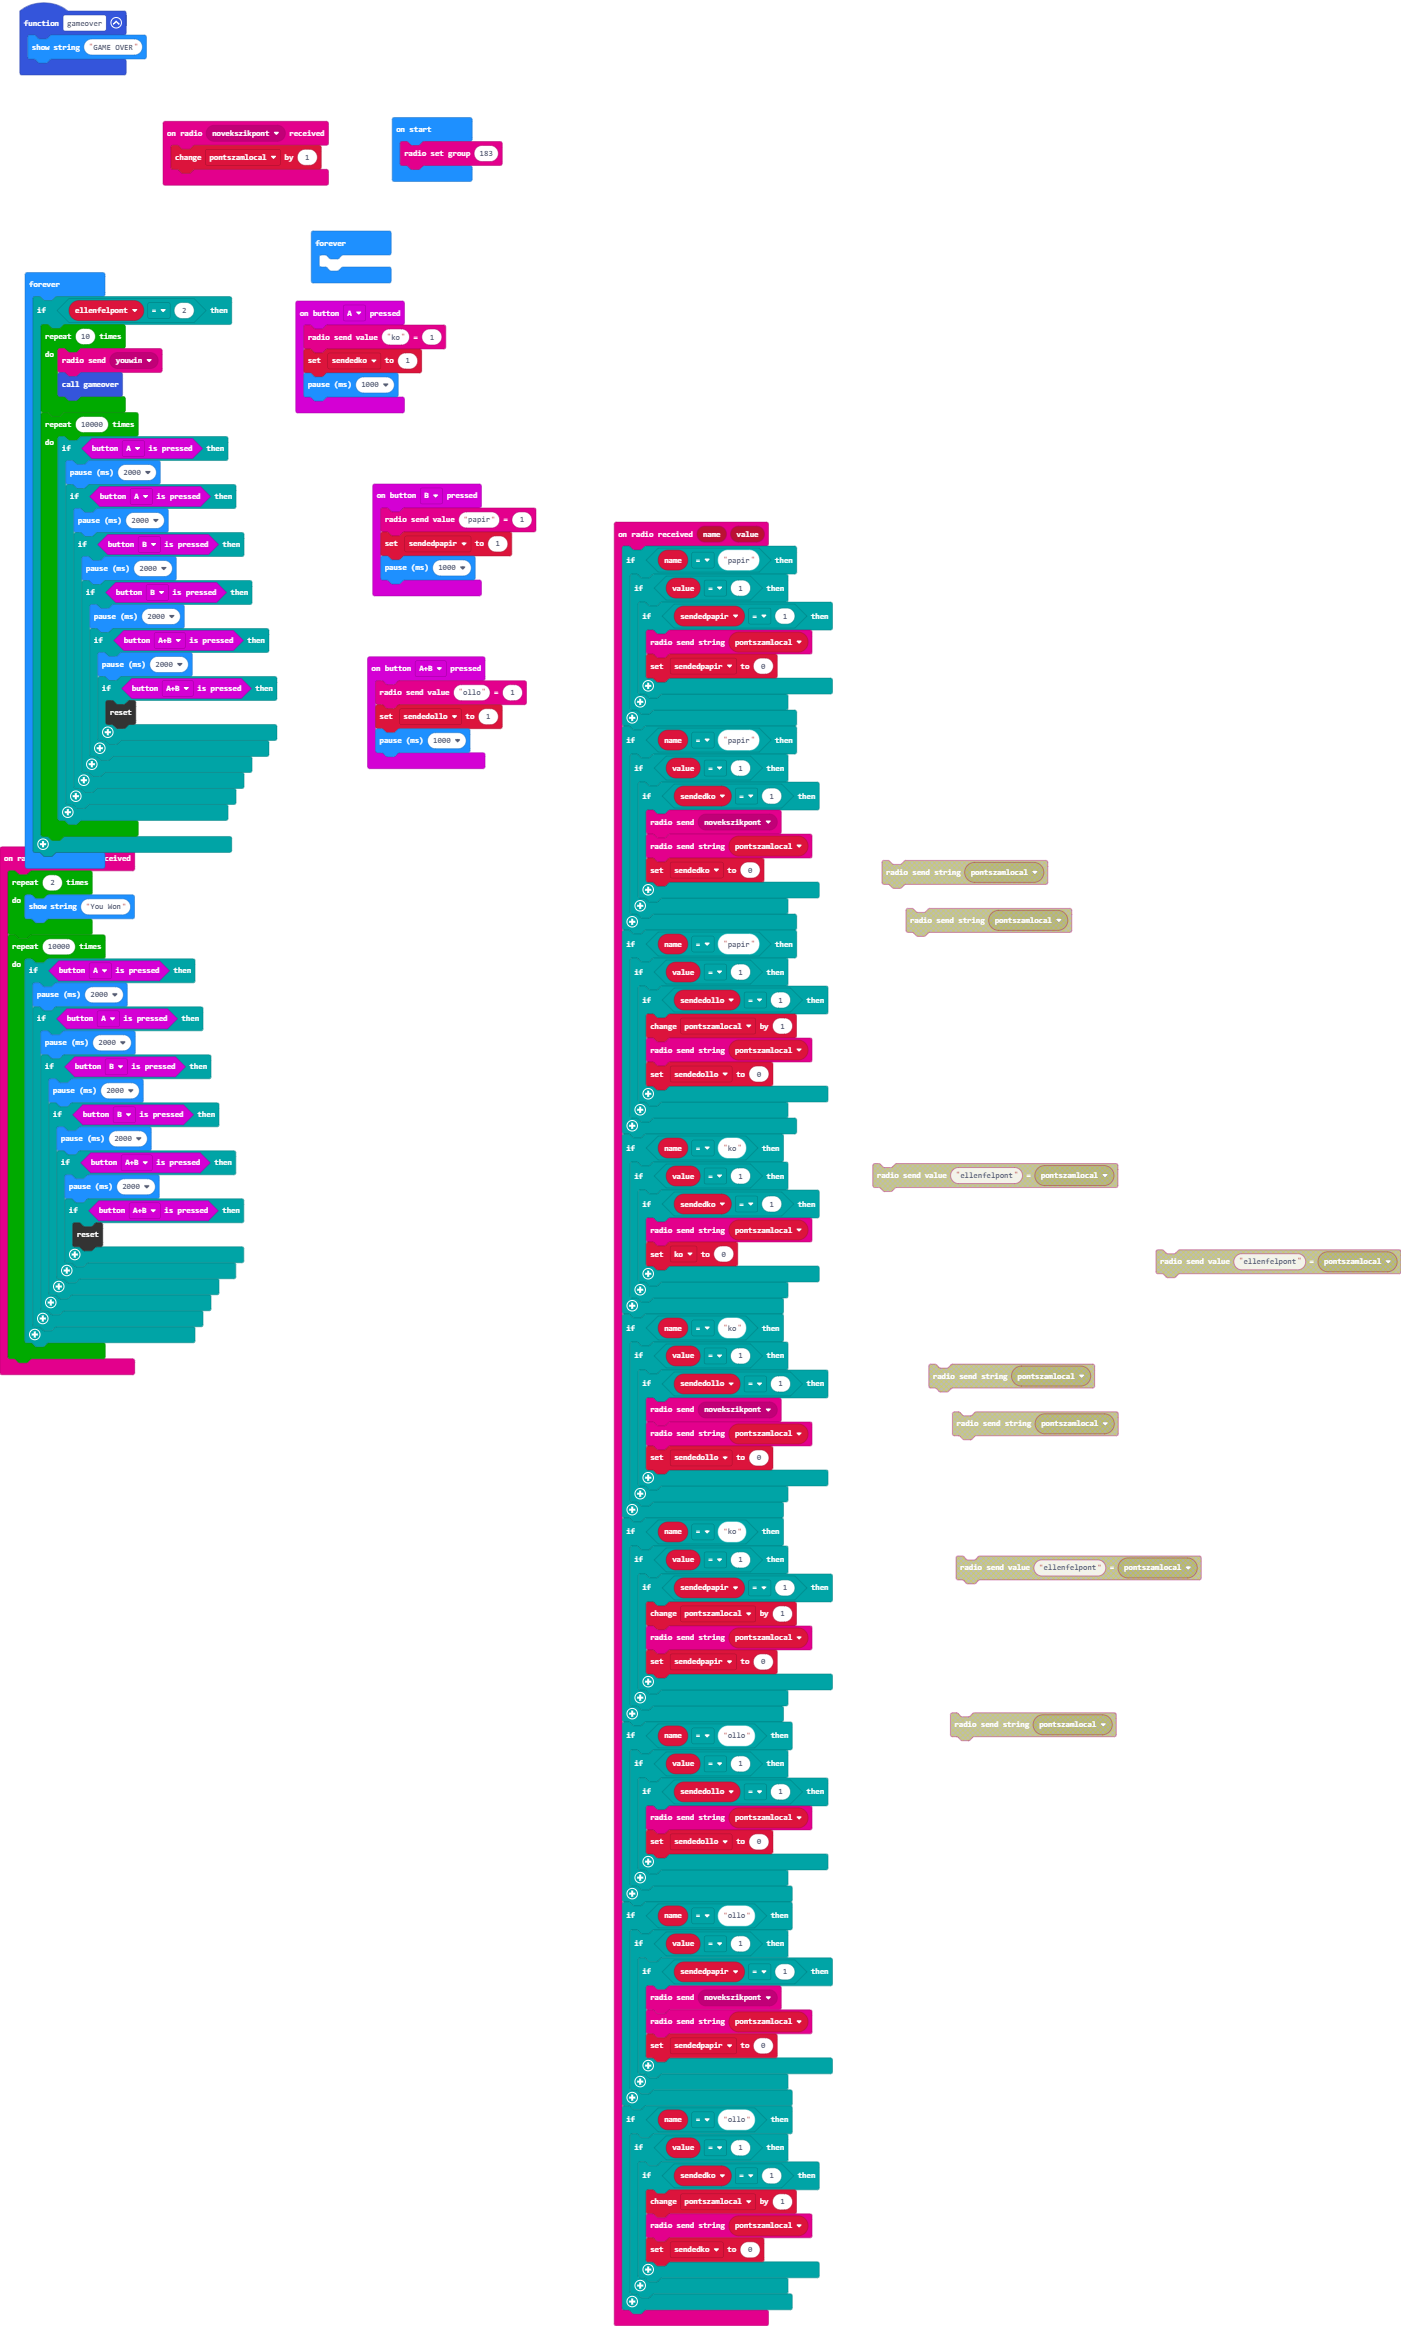
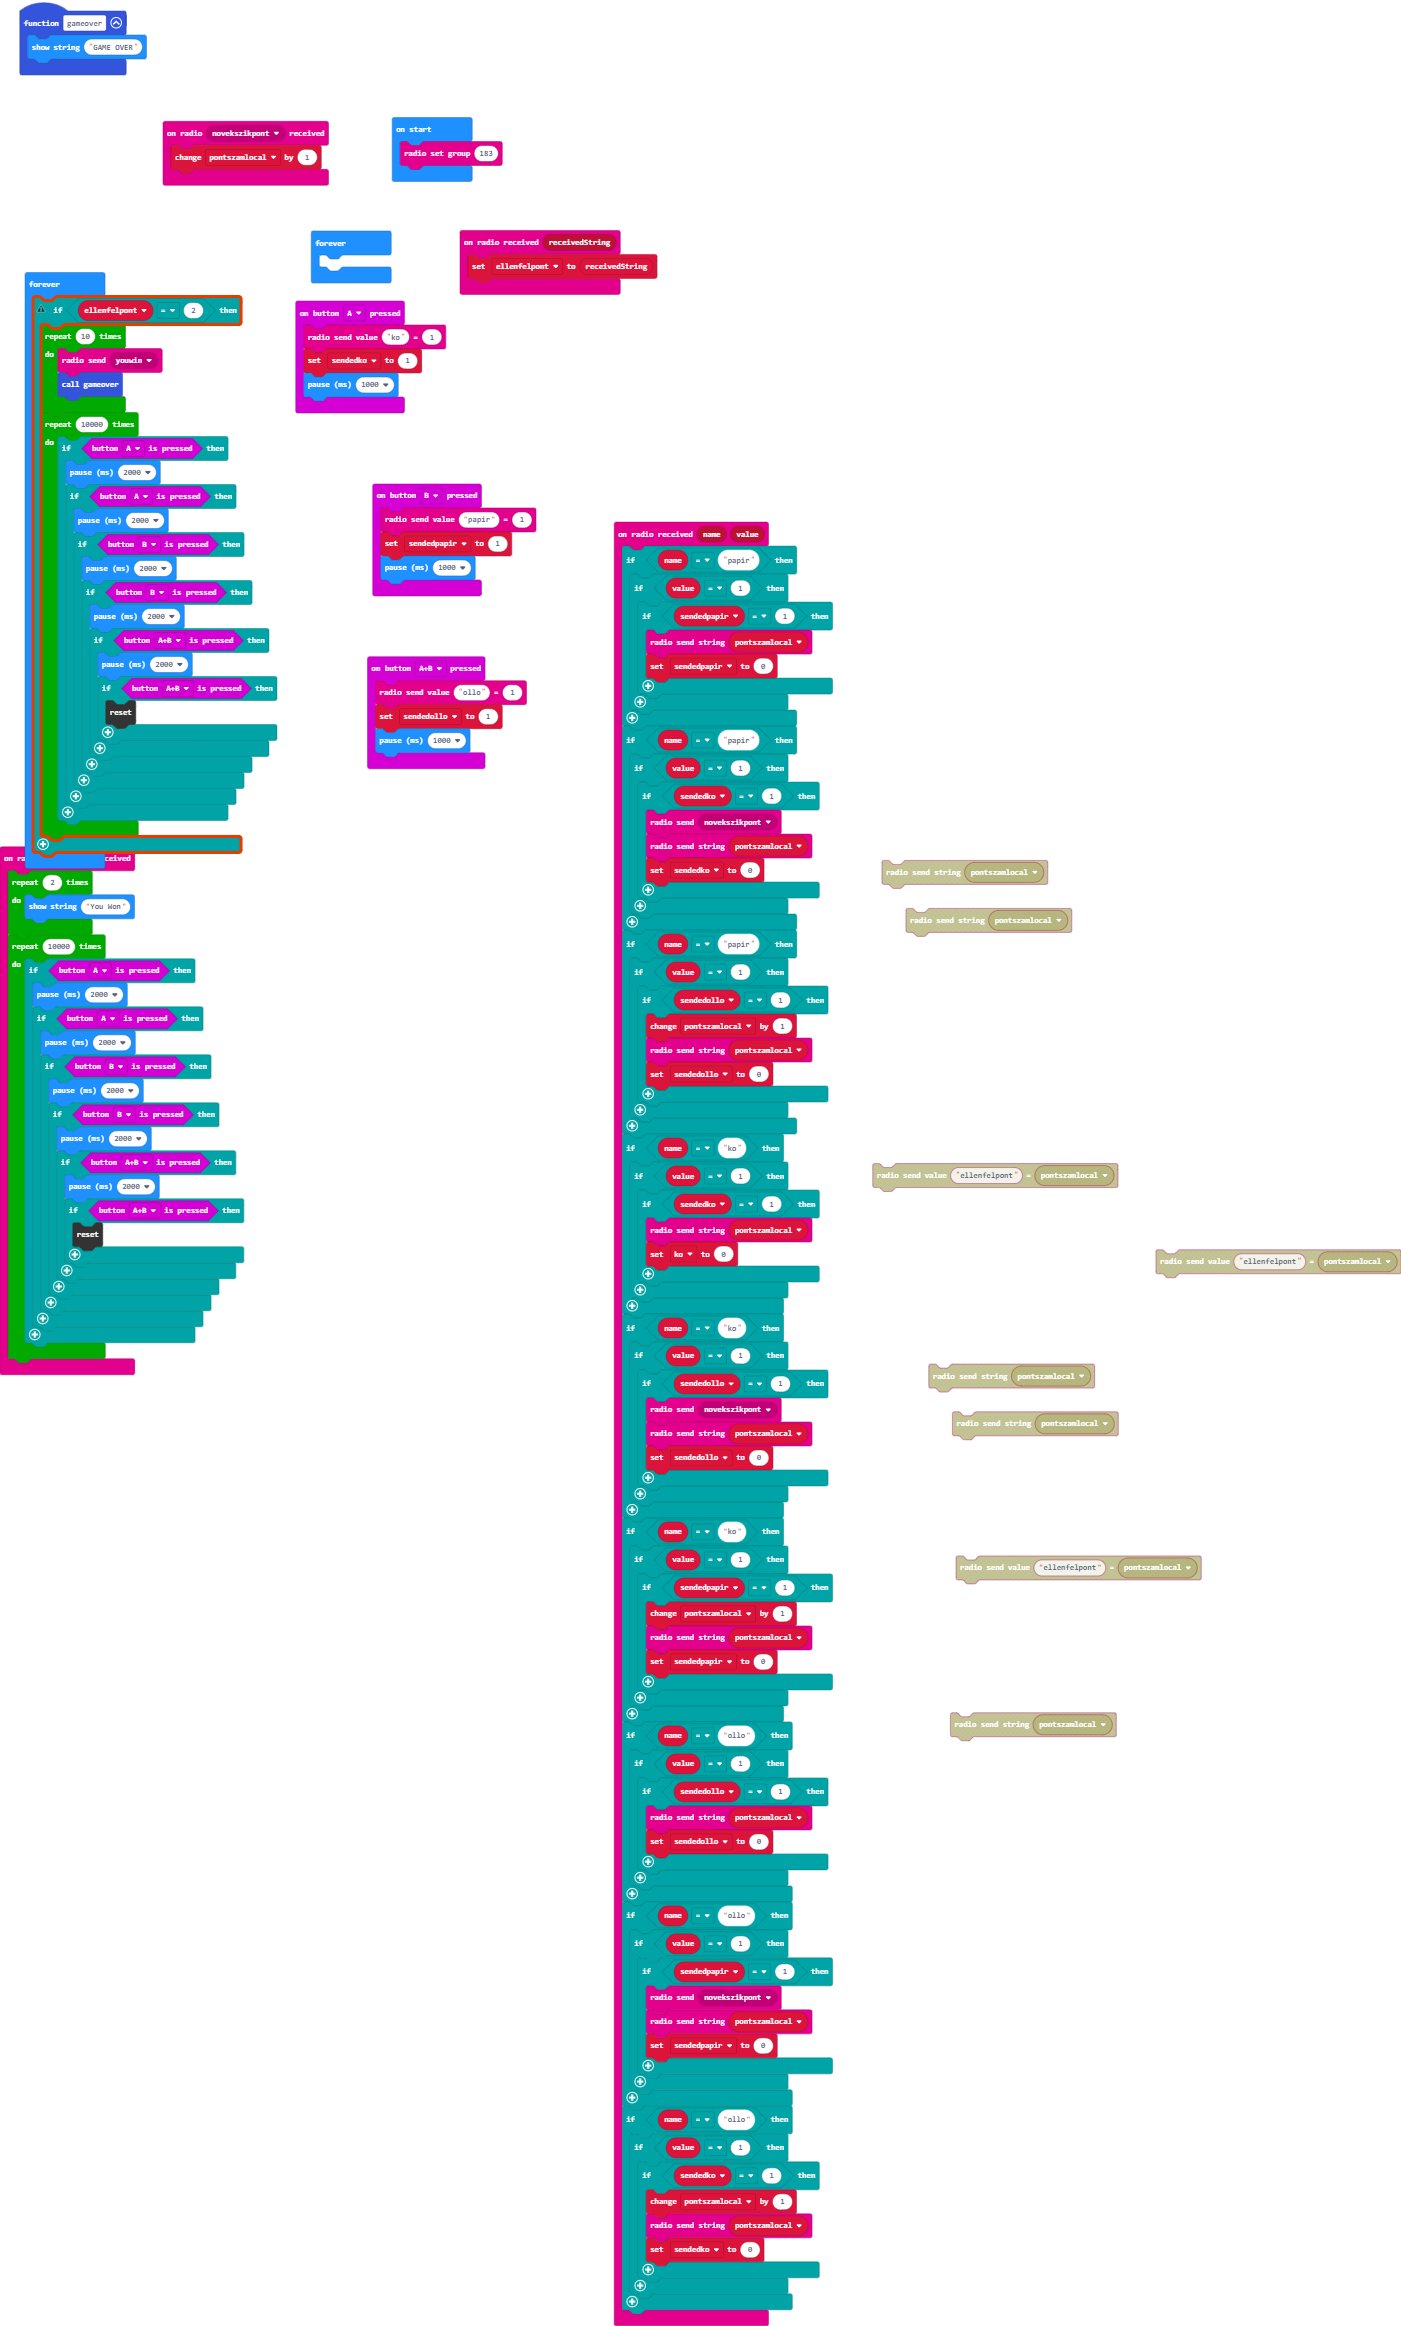
Complete, releasing project.

Changed region(s): [[0.0, 0.1238, 0.1842, 0.3715], [0.3069, 0.0929, 0.4911, 0.1238], [0.1535, 0.3405, 0.1842, 0.3715]]

diff --git a/main.ts b/main.ts
@@ -38,6 +38,9 @@ input.onButtonPressed(Button.AB, function () {
     sendedollo = 1
     basic.pause(1000)
 })
+radio.onReceivedString(function (receivedString) {
+    ellenfelpont = receivedString
+})
 input.onButtonPressed(Button.B, function () {
     radio.sendValue("papir", 1)
     sendedpapir = 1
@@ -132,6 +135,7 @@ function gameover () {
 let ko = 0
 let pontszamlocal = 0
 let sendedpapir = 0
+let ellenfelpont = ""
 let sendedollo = 0
 let sendedko = 0
 radio.setGroup(183)
@@ -139,7 +143,6 @@ basic.forever(function () {
 	
 })
 basic.forever(function () {
-    let ellenfelpont = 0
     if (ellenfelpont == 2) {
         for (let index = 0; index < 10; index++) {
             radio.sendMessage(RadioMessage.youwin)
